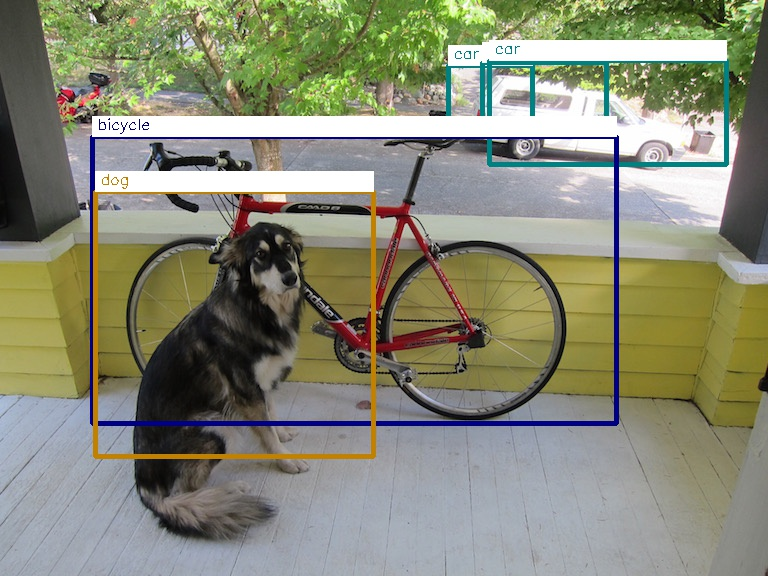
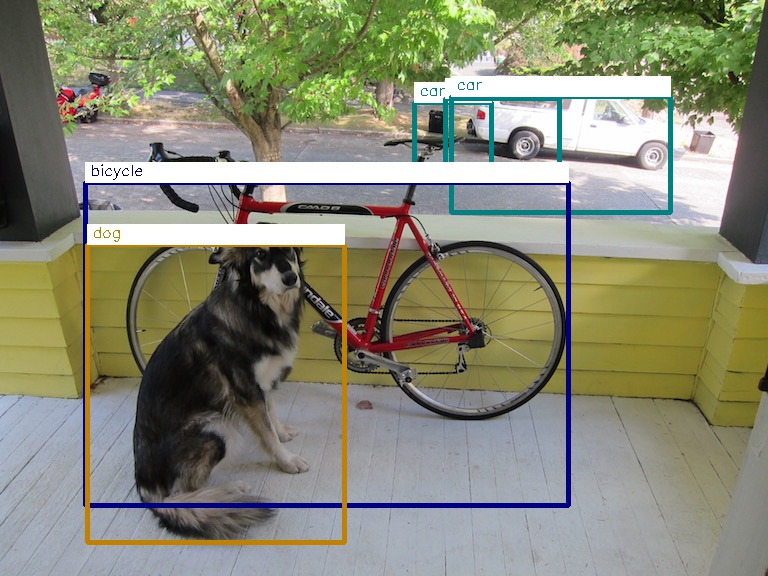
refine detected bboxes

Changed region(s): [[0.0938, 0.0625, 0.9688, 0.9688]]

diff --git a/detectionExample/ObjectWrapper.py b/detectionExample/ObjectWrapper.py
@@ -5,11 +5,11 @@ from mvnc import mvncapi as mvnc
 from skimage.transform import resize
 
 class BBox(object):
-    def __init__(self, bbox):
-        self.left = bbox.left
-        self.top = bbox.top
-        self.right = bbox.right
-        self.bottom = bbox.bottom
+    def __init__(self, bbox, xscale, yscale, offx, offy):
+        self.left = int(bbox.left / xscale)-offx
+        self.top = int(bbox.top / yscale)-offy
+        self.right = int(bbox.right / xscale)-offx
+        self.bottom = int(bbox.bottom / yscale)-offy
         self.confidence = bbox.confidence
         self.objType = bbox.objType
         self.name = bbox.name
@@ -41,7 +41,7 @@ class ObjectWrapper():
             self.dim = (416,416)
             self.blockwd = 12
             self.wh = self.blockwd*self.blockwd
-            self.targetBlockwd = 12
+            self.targetBlockwd = 13
             self.classes = 20
             self.threshold = 0.2
             self.nms = 0.4
@@ -68,7 +68,7 @@ class ObjectWrapper():
 
         imgb[offy:offy+newh,offx:offx+neww,:] = resize(img.copy()/255.0,(newh,neww),1)
         im = imgb[:,:,(2,1,0)]
-        return im,offx,offy
+        return im,offx,offy,(imgw-offx*2+.0)/imgw,(imgh-offy*2+.0)/imgh
 
     def Reshape(self, out, dim):
         shape = out.shape
@@ -80,13 +80,14 @@ class ObjectWrapper():
         imgw = img.shape[1]
         imgh = img.shape[0]
 
-        im,offx,offy = self.PrepareImage(img, self.dim)
+        im,offx,offy,xscale,yscale = self.PrepareImage(img, self.dim)
+        #print('xscale = {}, yscale = {}'.format(xscale, yscale))
         ObjectWrapper.graphHandle[0].LoadTensor(im.astype(np.float16), 'user object')
         out, userobj = ObjectWrapper.graphHandle[0].GetResult()
         out = self.Reshape(out, self.dim)
 
         internalresults = self.detector.Detect(out.astype(np.float32), int(out.shape[0]/self.wh), self.blockwd, self.blockwd, self.classes, imgw, imgh, self.threshold, self.nms, self.targetBlockwd)
-        pyresults = [BBox(x) for x in internalresults]
+        pyresults = [BBox(x,xscale,yscale, offx, offy) for x in internalresults]
         return pyresults
 
     def Parallel(self, img):
